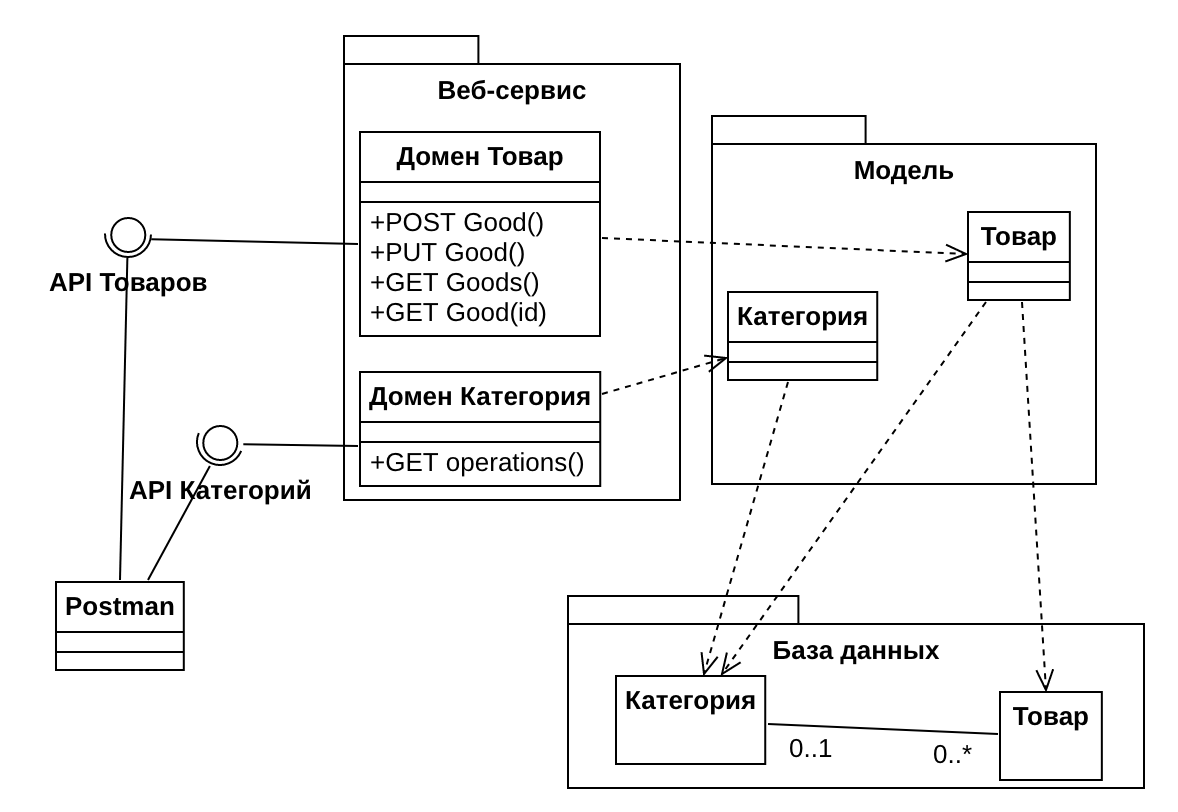
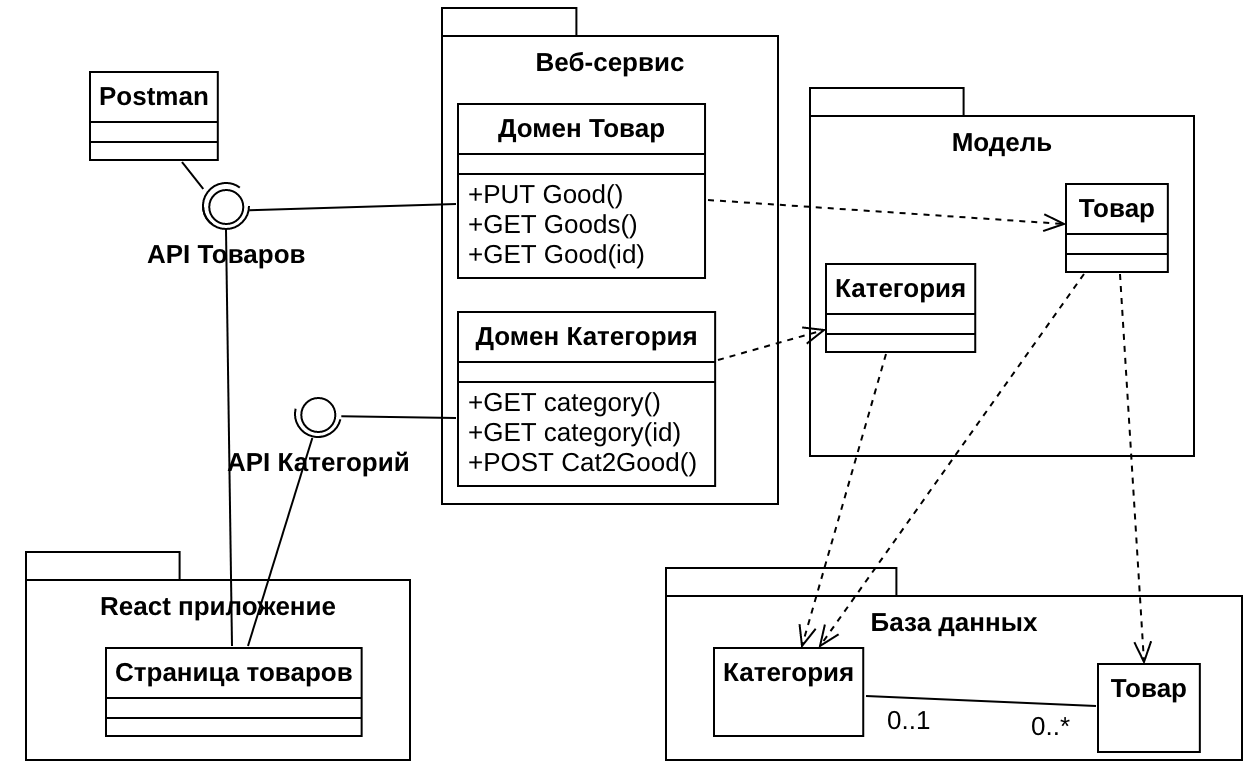
comments lab5

diff --git a/README.md b/README.md
@@ -108,16 +108,16 @@
 
 Статусы нельзя менять с любого на любой: `создатель` удаляет и формирует черновик заявки, а `модератор` отклоняет и завершает сформированную заявку. При получении `заявки` возвращется список ее услуг с картинками. В списке `услуг` возвращается id заявки-черновика этого пользователя для страницы `конструктора` заявки. В данной лабораторной пользователь `создатель` зафиксирован во всех методах - укажите его константой через функцию `singleton`.
 
-- Услуги - список, одна запись, добавление, изменение, удаление, добавление в заявку
-- Заявки - список, одна запись (поля `заявки` + ее `услуги`), изменение, сформировать создателем, завершить/отклонить модератором, удаление
-- м-м - удаление из заявки, изменение количества/значения в м-м 
+- Услуги - GET список, GET одна запись, POST добавление, PUT изменение, DELETE удаление, POST добавление в заявку
+- Заявки - GET список (кроме удаленных и черновика), GET одна запись (поля `заявки` + ее `услуги`), PUT изменение, PUT сформировать создателем, PUT завершить/отклонить модератором, DELETE удаление
+- м-м - DELETE удаление из заявки, PUT изменение количества/значения в м-м 
 
 **Рекомендуется реализация методов для изображений**:
 - добавление изображений отдельным методов по id услуги. Старое изображение заменяется/удаляется
 - удаление изображения встроено в метод удаления услуги
 - получение изображения для S3 напрямую по ссылке. При хранении картинки в БД - отдельный метод GET по id услуги.
 
-* [Методические указания DRF](/tutorials/lab3-py/lab3_tutorial.md). Только через `API view`
+* [Методические указания DRF](/tutorials/lab3-py/lab3_tutorial.md)
 * [Методические указания Golang](/tutorials/lab3-go/README.md)
 * [Пример подключения S3-хранилища](https://github.com/iu5git/Networking/tree/main/S3)
 * [Пример использования Minio в Python](https://github.com/iu5git/Networking/tree/main/Minio_Python)
@@ -136,8 +136,7 @@
 
 Содержимое карточек получать из веб-сервиса лабораторной №3. Ajax-запросы написать самостоятельно через `fetch`. Ограничение с `CORS` решить через проксирование `React`. В методах `fetch` предусмотреть получение данных из коллекции с `mock`-объектами при отсутствии доступа к вашему бэкенду.
 
-* [Методические указания](/tutorials/lab4/lab4_tutorial.md). Только на TS
-* [Progressive Web App и адаптивный дизайн](/tutorials/pwa/PWA.md)
+* [Методические указания](/tutorials/lab4/lab4_tutorial.md)
 
 **ТЗ** на итоговую систему (сплошная нумерация):
 1. **цель**
@@ -158,9 +157,9 @@
 #### Лабораторная 5
 
 - **Цель работы**: Завершение бэкенда для `SPA`
-- **Порядок показа**: выполнить авторизацию через `swagger` в режиме инкогнито, использовать содержимое `куки`/`localStorage`+`authorization` из браузера для заголовков остальных запросов через `swagger` и `insomnia`/`postman`. Показать, что при отсутствии прав возникает 403 ошибка.
+- **Порядок показа**: выполнить авторизацию через `swagger` в режиме инкогнито, использовать содержимое `куки`/`localStorage`+`authorization` из браузера для заголовков остальных запросов через `swagger` и `insomnia`/`postman`. Выполнить GET списка заявок: для модератора все заявки, для создателя только его. Выполнить PUT завершения заявки: для создателя 403 статус, для модератора успех и обновление полей.
 - **Контрольные вопросы**: куки, сессия, redis, jwt, авторизация, аутентификация
-- **Sequence диаграмма**: весь набор `HTTP` запросов по бизнес-процессу из показа 3 лабораторной. Без БД и нативного приложения, но с аутентификацией и асинхронным обращением ко второму сервису
+- **Sequence диаграмма**: весь набор `HTTP` запросов по бизнес-процессу из показа 3 лабораторной, кроме удаления старой заявки и добавления новой услуги с картинкой, но с аутентификацией. Без БД и нативного приложения, но с асинхронным обращением ко второму сервису. Добавить домены в качестве `Lifeline`, при добавлении сообщений выбирать методы доменов из диаграммы классов, передавать ключевые входные и выходные данные
 - **Задание**: Добавление авторизации и `swagger` в веб-сервис
 
 Реализовать методы бэкенда для `аутентификации` и `регистрации`. Авторизация через хранение сессий и куки. Автозаполнение пользователя в таблице `заявок` при создании новой. Добавить описание методов для `swagger`.
@@ -240,7 +239,9 @@
 
 #### Дополнительные задания
 1. Индексы в БД, большое количество `услуг` (> 100000) и пагинация (+4 балла). Порядок показа: показать пагинацию с фильтрацией по индексу в React-приложении. Включить и отключить индекс - показать отличие во времени запроса.
+* [Индексы и план запроса](https://github.com/iu5git/Database/blob/main/tutorials/lab_index.md)
 2. Адаптивность дизайна (+2 балла). Перейти в адаптивный режим браузера, поменять ширину. Объяснить настройки для размера карточек, количества колонок и тд.
+* [Progressive Web App и адаптивный дизайн](/tutorials/pwa/PWA.md)
 3. Кодогенерация из `swagger` (+2 балла). Показать применение сгенерированного кода фронтенда из `swagger`.
 
 ### Темы 2023:

diff --git a/tutorials/homework/README.md b/tutorials/homework/README.md
@@ -38,7 +38,7 @@
 
 ![](assets/postman.png)
 
-Более детально программные компоненты системы и их зависимости описаны на диаграмме классов.
+Более детально программные компоненты системы с детализацией фронтенда и их зависимости описаны на диаграмме классов.
 
 ![](assets/classes.png)
 
@@ -46,6 +46,8 @@
 
 Диаграмму последовательности используем для описания AJAX запросов от приложений к веб-сервису
 
+![](assets/sequence2.png)
 ![](assets/sequence.png)
+
 
 
